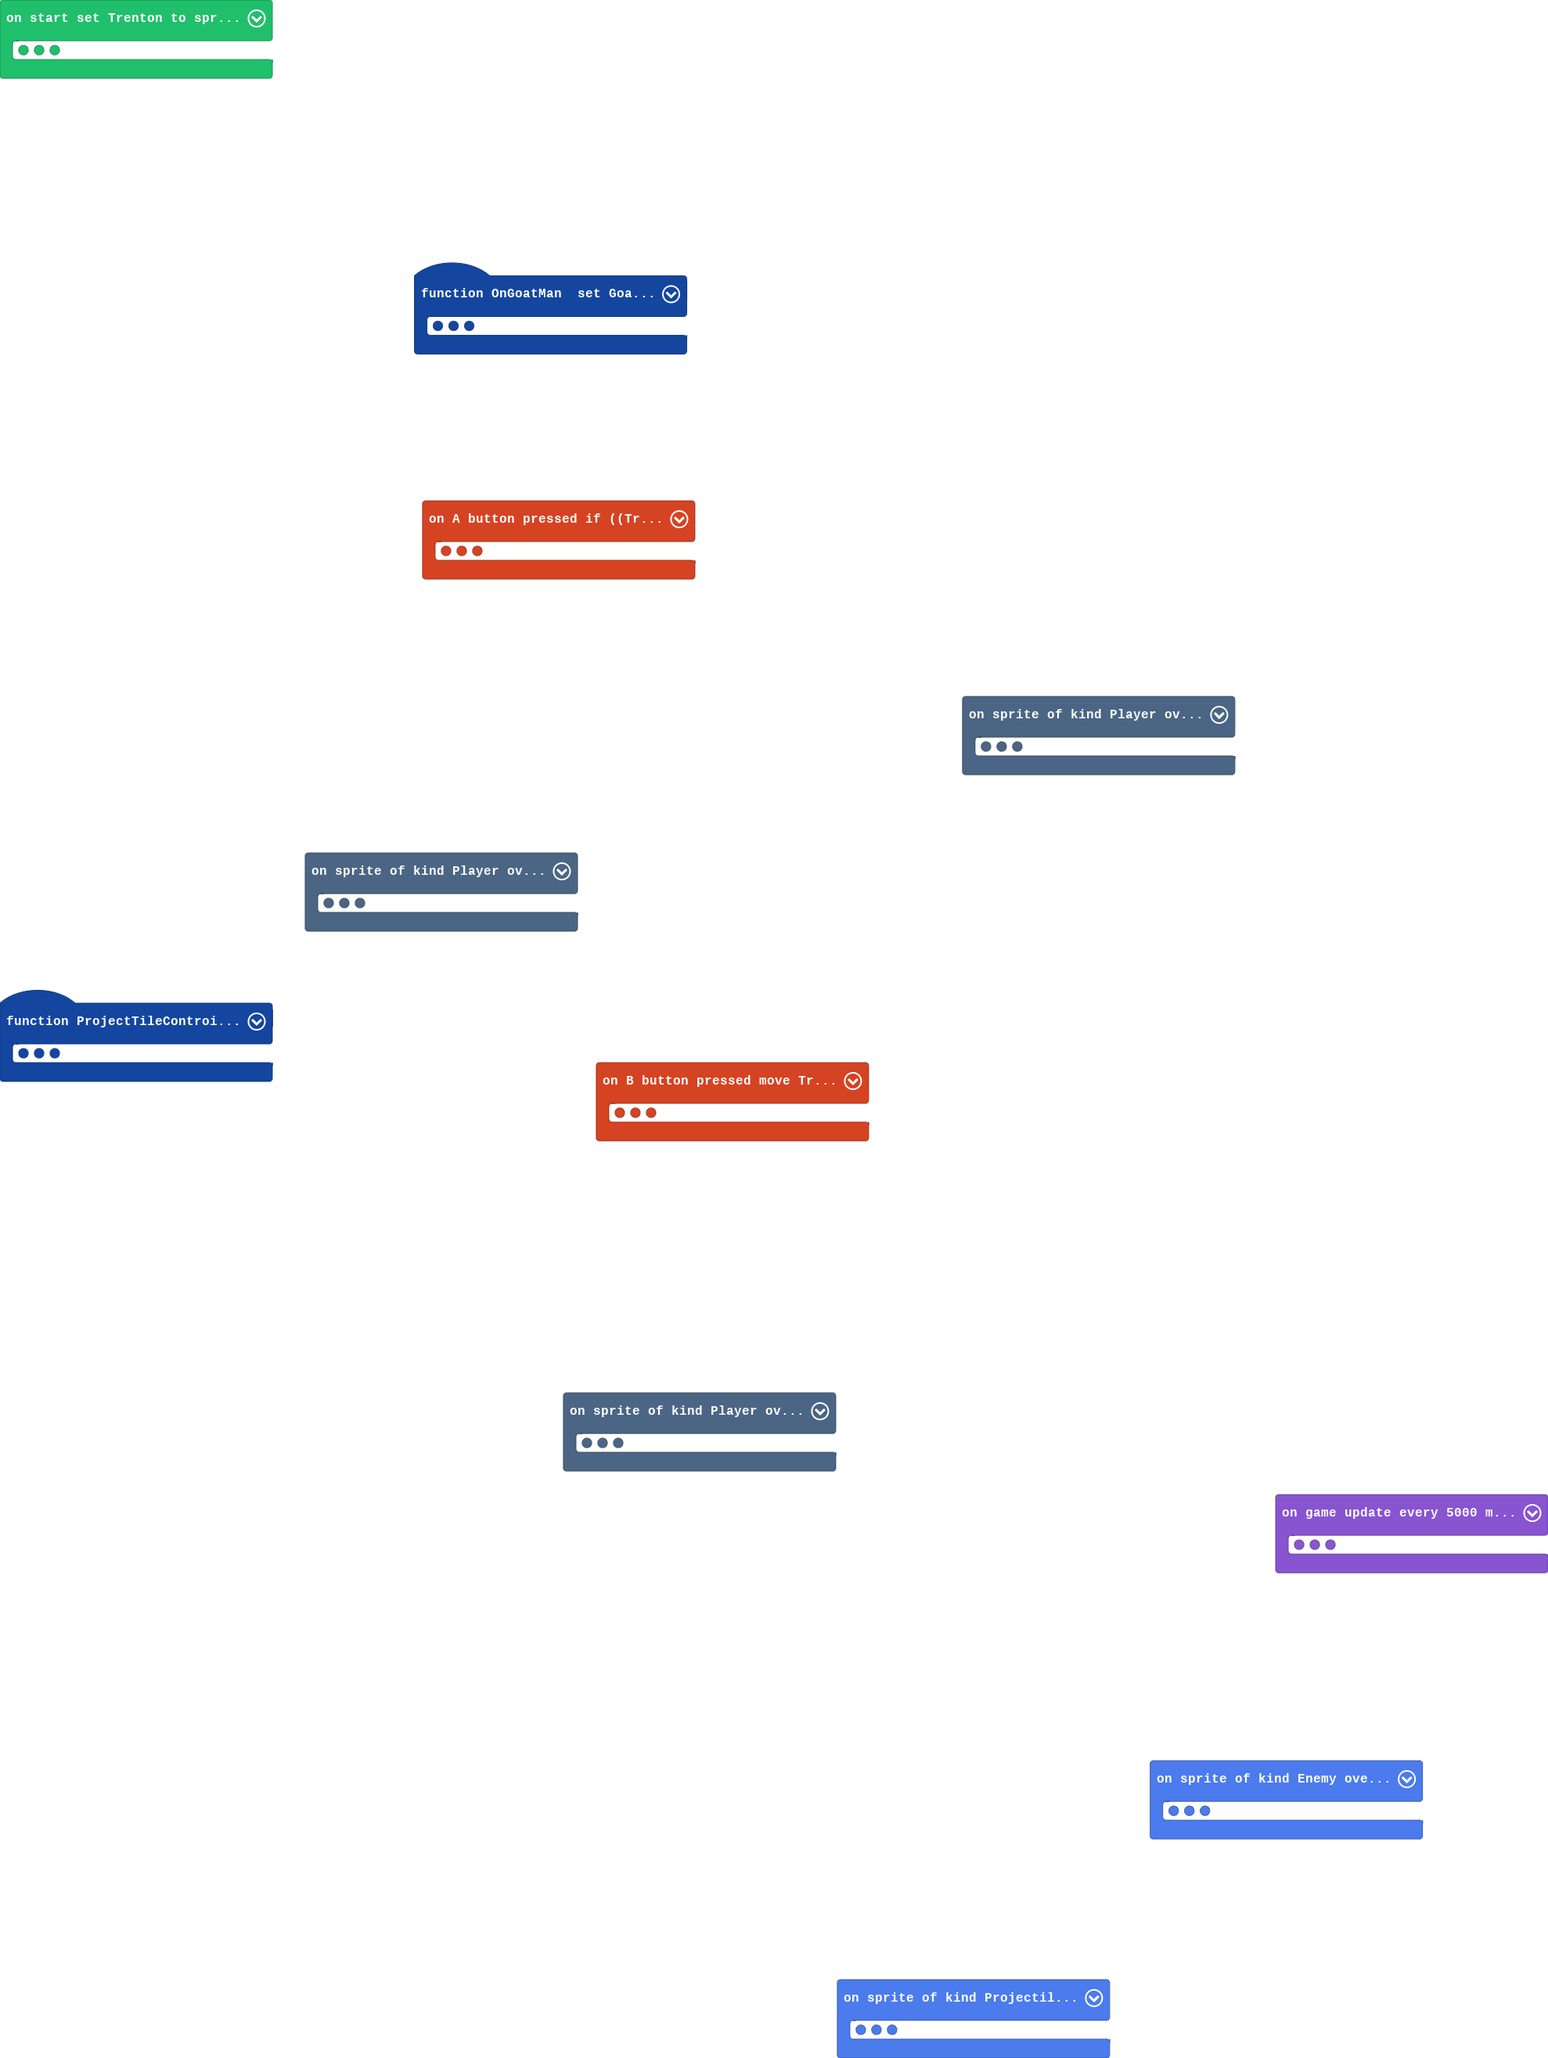
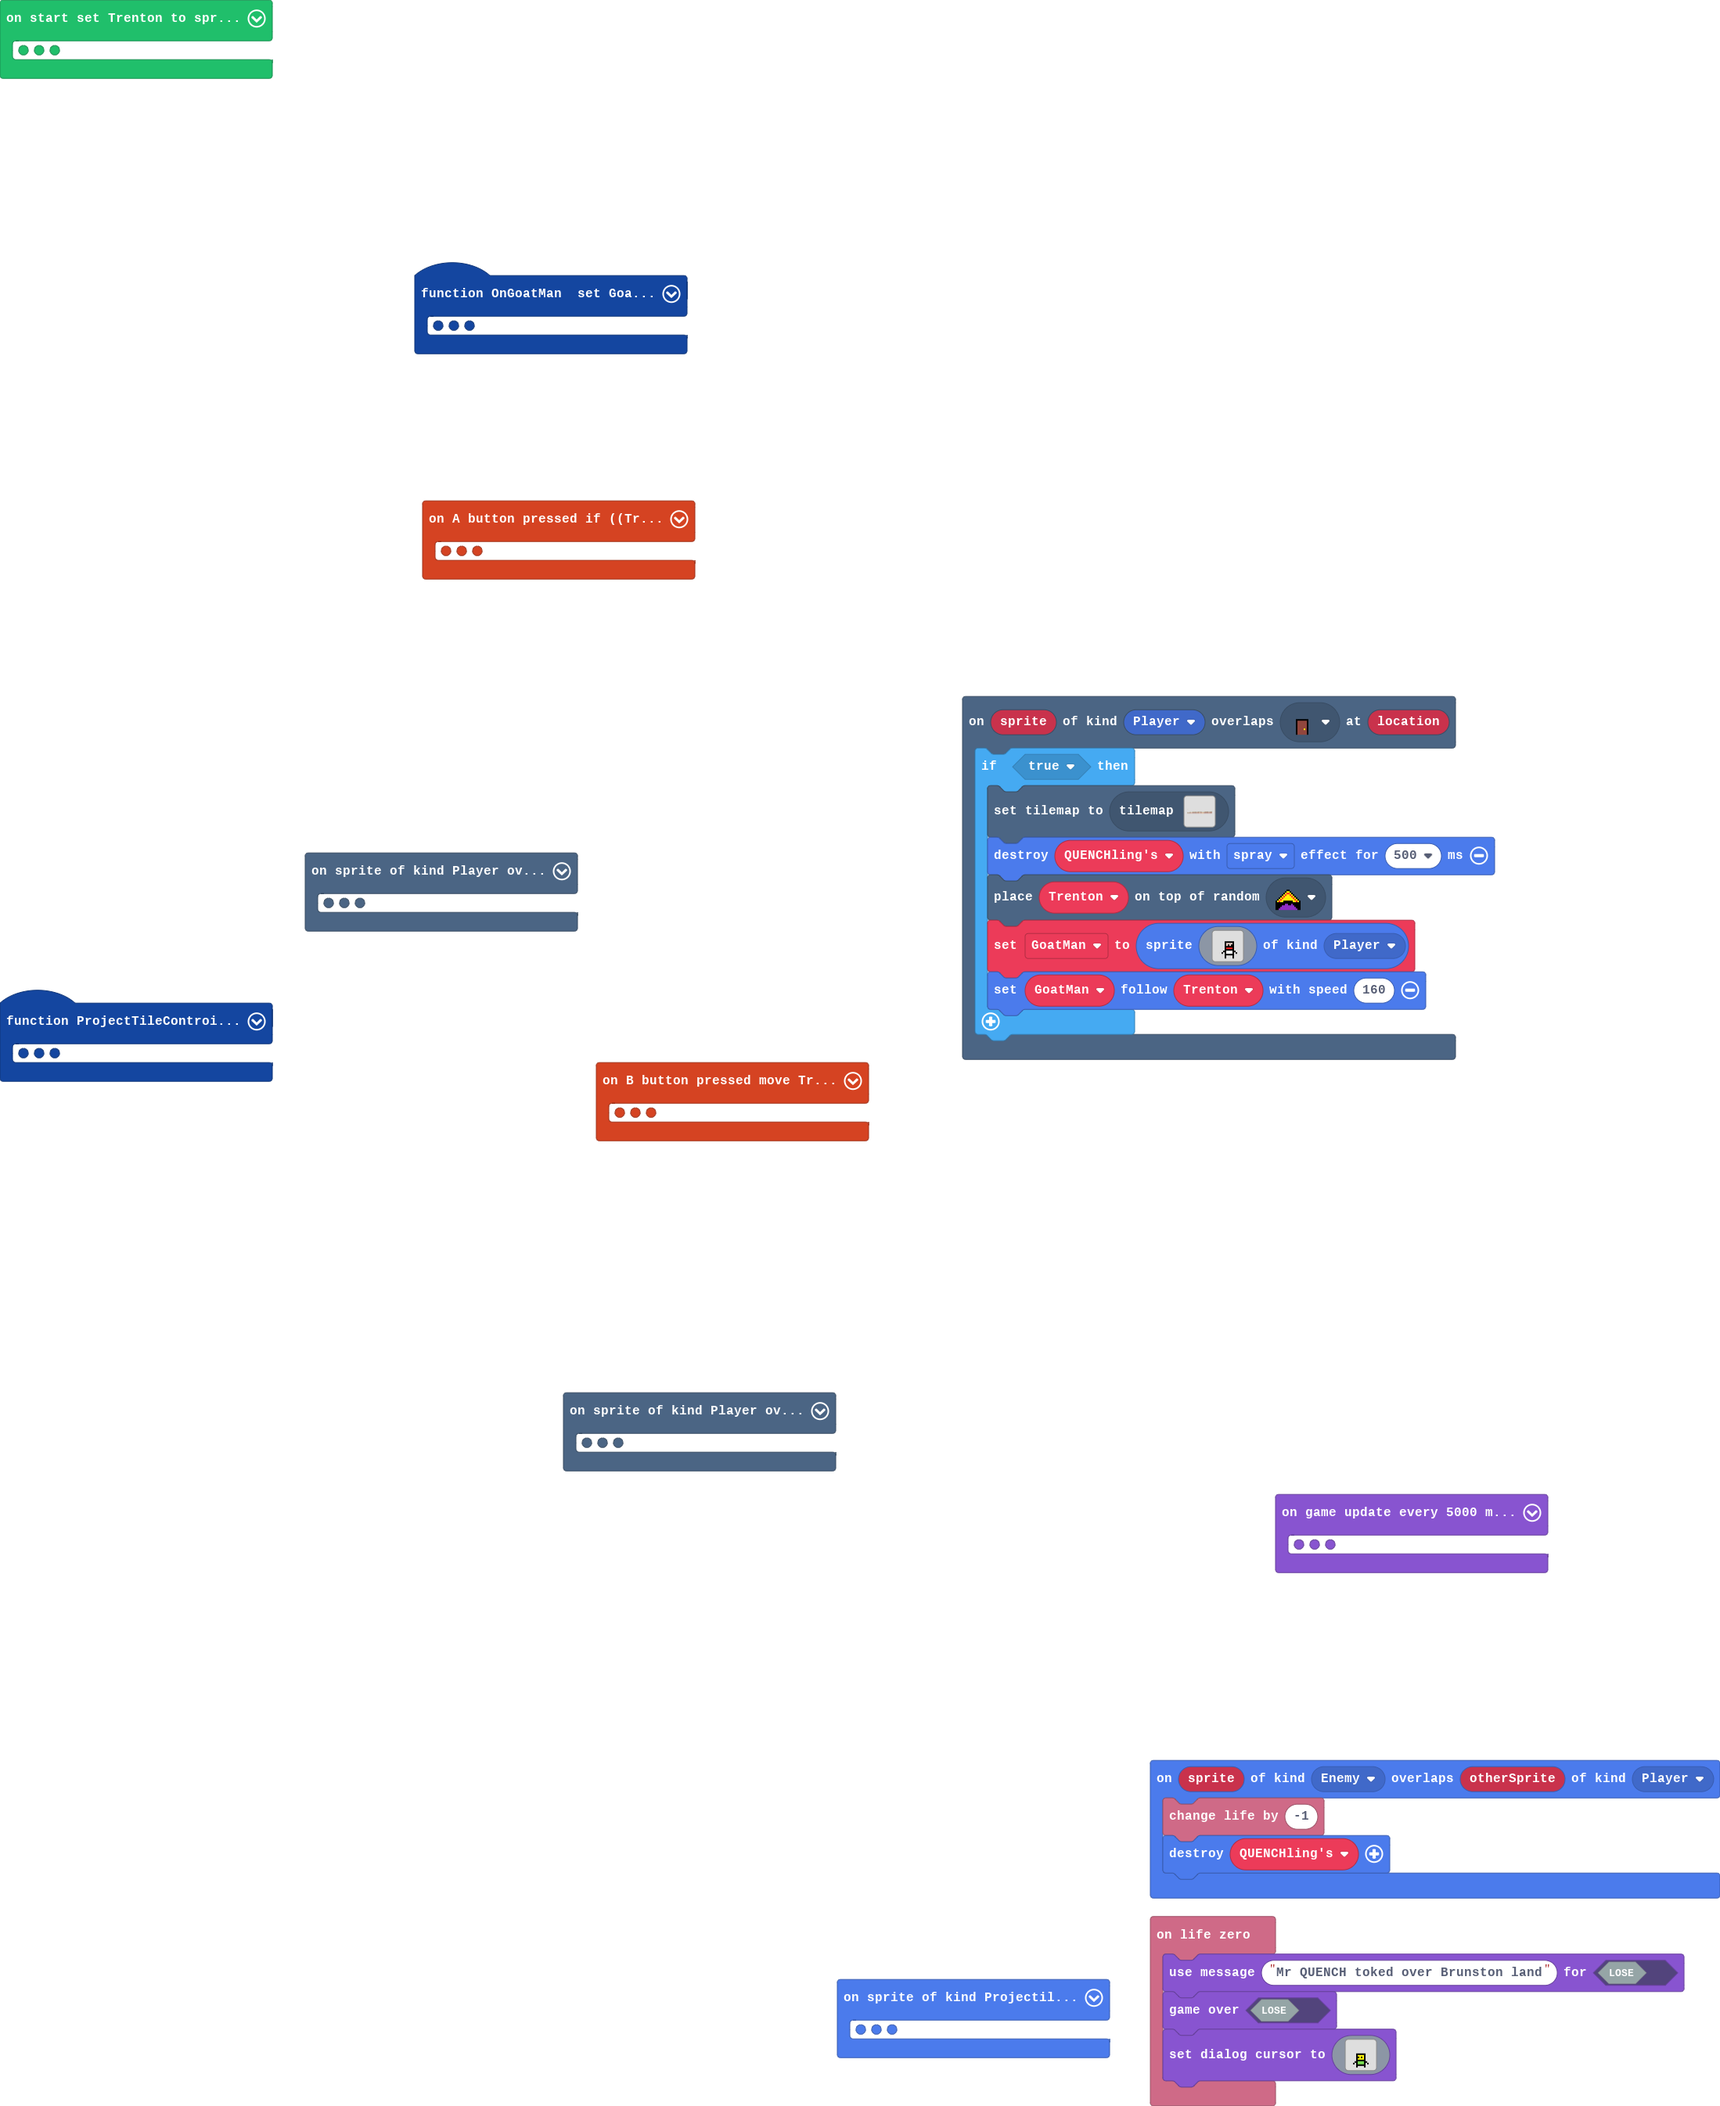
Update main.blocks, main.ts, tilemap.g.jres, tilemap.g.ts

diff --git a/tilemap.g.ts b/tilemap.g.ts
@@ -159,7 +159,7 @@ namespace myTiles {
 . . . . . . . . . . . . . . . . 
 `, [myTiles.transparency16], TileScale.Sixteen);
             case "jungle2":
-            case "level3":return tiles.createTilemap(hex`6400100000000000000000000000000000000000000000000000000000000000000000000000000000000000000000000000000000000000000000000000000000000000000000000000000000000000000000000000000000000000000000000000000000000000000003000000000000000000000000000000000000000000000000000000000000000000000000000000000000000000000000000000000000000000000000000000000000000000000000000000000000000000000000000000000000000000000000000000000000000000000000000000000000000000000000000000000000000000000000000000000000000000000000000000000000000000000000000000000000000000000000000000000000000000000000000000000000000000000000000000000000000000000000000000000000000000000000000000000000000000000000000000000000000000000000000000000000000000000000000000000000000000000000000000000000000000000000000000000000000000000000000000000000000000000000000000000000000000000000000000000000000000000000000000000000000000000000000000000000000000000000000000000000000000000000000000000000000000000000000000000000000000000000000000000000000000000000000000000000000000000000000000000000000000000000000000000000000000000000000000000000000000000000000000000000000000000000000000000000000000000000000000000000000000000000000000000000000000000000000000000000000000000000000000000000000000000000000000000000000000000000000000000000000000000000000000000000000000000000000000000000000000000000000000000000000000000000000000000000000000000000000000000000000000000000000000000000000000000000000000000000000000000000000000000000000000000000000000000000000000000000000000000000000000000000000000000000000000000000000000000000000000000000000000000000000000000000000000000000000000000000000000000000000000000000000000000000000000000000000000000000000000000000000000000000000000000000000000000000000000000000000000000000000000000000000000000000000000000000000000000000000000000000000000000000000000000000000000000000000000000000000000000000000000000000000000000000000000000000000000000000000000000000000000000000000000000000000000000000000000000000000000000000000000000000000000000000000000000000000000000000000000000000000000000000000000000000000000000000000000000000000000000000000000000000000000000000000000000000000000000000000000000000000000000000000000000005000000000000000000000000000000000000000000000000000000000000000000000000000000000000000001010101010001010100010101010100000000000000000000000000010101010101010101010101010101000000010101010101010101010100000000000000000000000001010000000000000101010101010101010101010101010101010100000101020202020200000000000202020202000000000000000000010101010202020202020202020202020202020000000202020202020202020202000300000000000000000001020201000000000002020202020202020202020202020202020202000002020202020202000000000002020202020000010101010100000202020202020202020202020202020202020200000002020202020202020202020101010101010101010101020202020100000000020202020202020202020202020202020202020000020202020202020000000000020202020200000000000000000002020202020202020202020202020202020202000000020202020202020202020202020202020202020202020202020202040404040202020202020202020202020202020202020204040202020202020204040404040202020202040404040404040404020202020202020202020202020202020202020404040202020202020202020202`, img`
+            case "level3":return tiles.createTilemap(hex`6400100000000000000000000000000000000000000000000000000000000000000000000000000000000000000000000000000000000000000000000000000000000000000000000000000000000000000000000000000000000000000000000000000000000000000003000000000000000000000000000000000000000000000000000000000000000000000000000000000000000000000000000000000000000000000000000000000000000000000000000000000000000000000000000000000000000000000000000000000000000000000000000000000000000000000000000000000000000000000000000000000000000000000000000000000000000000000000000000000000000000000000000000000000000000000000000000000000000000000000000000000000000000000000000000000000000000000000000000000000000000000000000000000000000000000000000000000000000000000000000000000000000000000000000000000000000000000000000000000000000000000000000000000000000000000000000000000000000000000000000000000000000000000000000000000000000000000000000000000000000000000000000000000000000000000000000000000000000000000000000000000000000000000000000000000000000000000000000000000000000000000000000000000000000000000000000000000000000000000000000000000000000000000000000000000000000000000000000000000000000000000000000000000000000000000000000000000000000000000000000000000000000000000000000000000000000000000000000000000000000000000000000000000000000000000000000000000000000000000000000000000000000000000000000000000000000000000000000000000000000000000000000000000000000000000000000000000000000000000000000000000000000000000000000000000000000000000000000000000000000000000000000000000000000000000000000000000000000000000000000000000000000000000000000000000000000000000000000000000000000000000000000000000000000000000000000000000000000000000000000000000000000000000000000000000000000000000000000000000000000000000000000000000000000000000000000000000000000000000000000000000000000000000000000000000000000000000000000000000000000000000000000000000000000000000000000000000000000000000000000000000000000000000000000000000000000000000000000000000000000000000000000000000000000000000000000000000000000000000000000000000000000000000000000000000000000000000000000000000000000000000006000000000000000000000000000000000000000000000000000000000000000600000000000000000000000000000005000000000000000000000000000000000000000000000000000000000000000000060000000000000000000001010101010001010100010101010100000000000000000000000000010101010101010101010101010101000000010101010101010101010100000000000000000000000001010000000000000101010101010101010101010101010101010100000101020202020200000000000202020202000000000600000000010101010202020202020202020202020202020000000202020202020202020202000300000000000000000001020201000000000002020202020202020202020202020202020202000002020202020202000000000002020202020000010101010100000202020202020202020202020202020202020200000002020202020202020202020101010101010101010101020202020100000000020202020202020202020202020202020202020000020202020202020000000000020202020200000000000000000002020202020202020202020202020202020202000000020202020202020202020202020202020202020202020202020202040404040202020202020202020202020202020202020204040202020202020204040404040202020202040404040404040404020202020202020202020202020202020202020404040202020202020202020202`, img`
 ....................................................................................................
 ....................................................................................................
 ....................................................................................................
@@ -176,7 +176,7 @@ namespace myTiles {
 ...........2222.....2222222222222222222..2222222.....22222..22222..2222222222222222222...22222222222
 2222222222222222....2222222222222222222..2222222.....22222.........2222222222222222222...22222222222
 2222222222222222....2222222222222222222..2222222.....22222.........2222222222222222222...22222222222
-`, [myTiles.transparency16,myTiles.tile1,myTiles.tile2,myTiles.tile4,myTiles.tile3,myTiles.tile8], TileScale.Sixteen);
+`, [myTiles.transparency16,myTiles.tile1,myTiles.tile2,myTiles.tile4,myTiles.tile3,myTiles.tile8,myTiles.tile10], TileScale.Sixteen);
         }
         return null;
     })

diff --git a/main.ts b/main.ts
@@ -24,26 +24,32 @@ controller.A.onEvent(ControllerButtonEvent.Pressed, function () {
         Trenton.vy = -111
     }
 })
-function OnGoatMan () {
-    GoatMan = sprites.create(assets.image`GoatMan`, SpriteKind.Player)
-    GoatMan.follow(Trenton, 160)
-}
 scene.onOverlapTile(SpriteKind.Player, assets.tile`myTile3`, function (sprite, location) {
     if (true) {
         tiles.setCurrentTilemap(tilemap`jungle2`)
         sprites.destroy(QUENCHlings, effects.spray, 500)
         tiles.placeOnRandomTile(Trenton, assets.tile`myTile2`)
+        GoatMan = sprites.create(assets.image`GoatMan`, SpriteKind.Player)
+        GoatMan.follow(Trenton, 160)
     }
+})
+function OnGoatMan () {
+    GoatMan = sprites.create(assets.image`GoatMan`, SpriteKind.Player)
+    GoatMan.follow(Trenton, 160)
+}
+sprites.onOverlap(SpriteKind.Enemy, SpriteKind.Player, function (sprite, otherSprite) {
+    info.changeLifeBy(-1)
+    sprites.destroy(QUENCHlings)
+})
+info.onLifeZero(function () {
+    game.setGameOverMessage(false, "Mr QUENCH toked over Brunston land")
+    game.gameOver(false)
+    game.setDialogCursor(assets.image`QUENCHling`)
 })
 sprites.onOverlap(SpriteKind.Projectile, SpriteKind.Enemy, function (sprite, otherSprite) {
     sprites.destroy(QUENCHlings, effects.fire, 5000)
     info.changeScoreBy(1)
     scene.cameraShake(4, 1000)
-})
-sprites.onOverlap(SpriteKind.Enemy, SpriteKind.Player, function (sprite, otherSprite) {
-    game.setGameOverMessage(false, "Mr QUENCH toked over Brunston land")
-    game.gameOver(false)
-    game.setDialogCursor(assets.image`QUENCHling`)
 })
 function ProjectTileControil () {
     Uzi = sprites.createProjectileFromSprite(assets.image`Uzi bullet`, Trenton, 50, 0)
